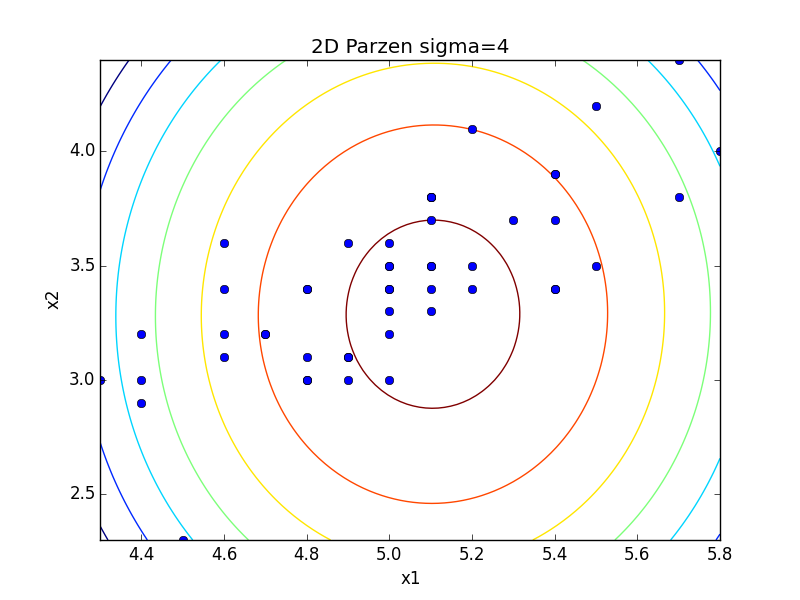
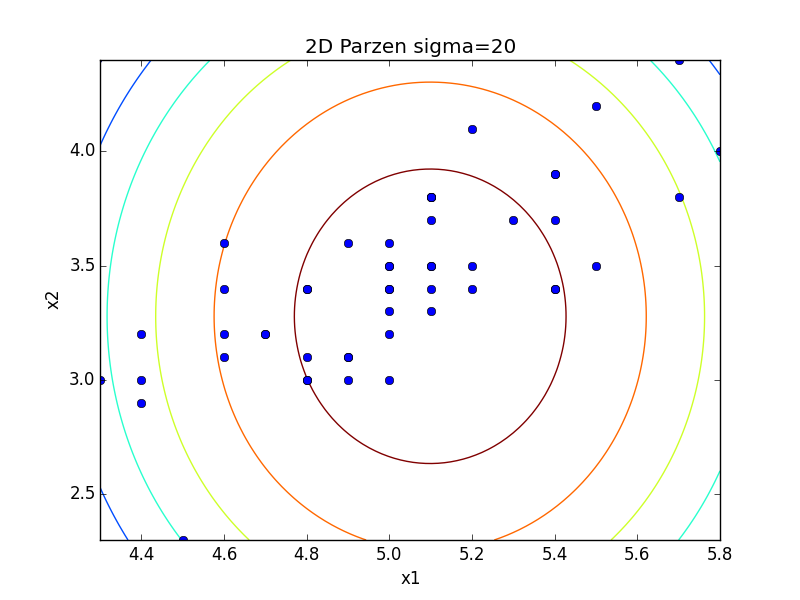
[fix] minor

diff --git a/src/main.py b/src/main.py
@@ -1,4 +1,4 @@
-
+#-*- coding: utf-8 -*-
 import densite
 
 
@@ -13,7 +13,7 @@ def main():
     d2d.getParamDensityGraph()
     d2d.getParzenGraph(0.08)
     d2d.getParzenGraph(0.40)
-    d2d.getParzenGraph(4)
+    d2d.getParzenGraph(20)
 
 
 if __name__ == '__main__':

diff --git a/src/densite.py b/src/densite.py
@@ -1,9 +1,6 @@
 import numpy
 import matplotlib.pyplot as plt
-import utilitaires
-import random
 import densite_fonction
-
 
 class Densite1D:
     def __init__(self):
